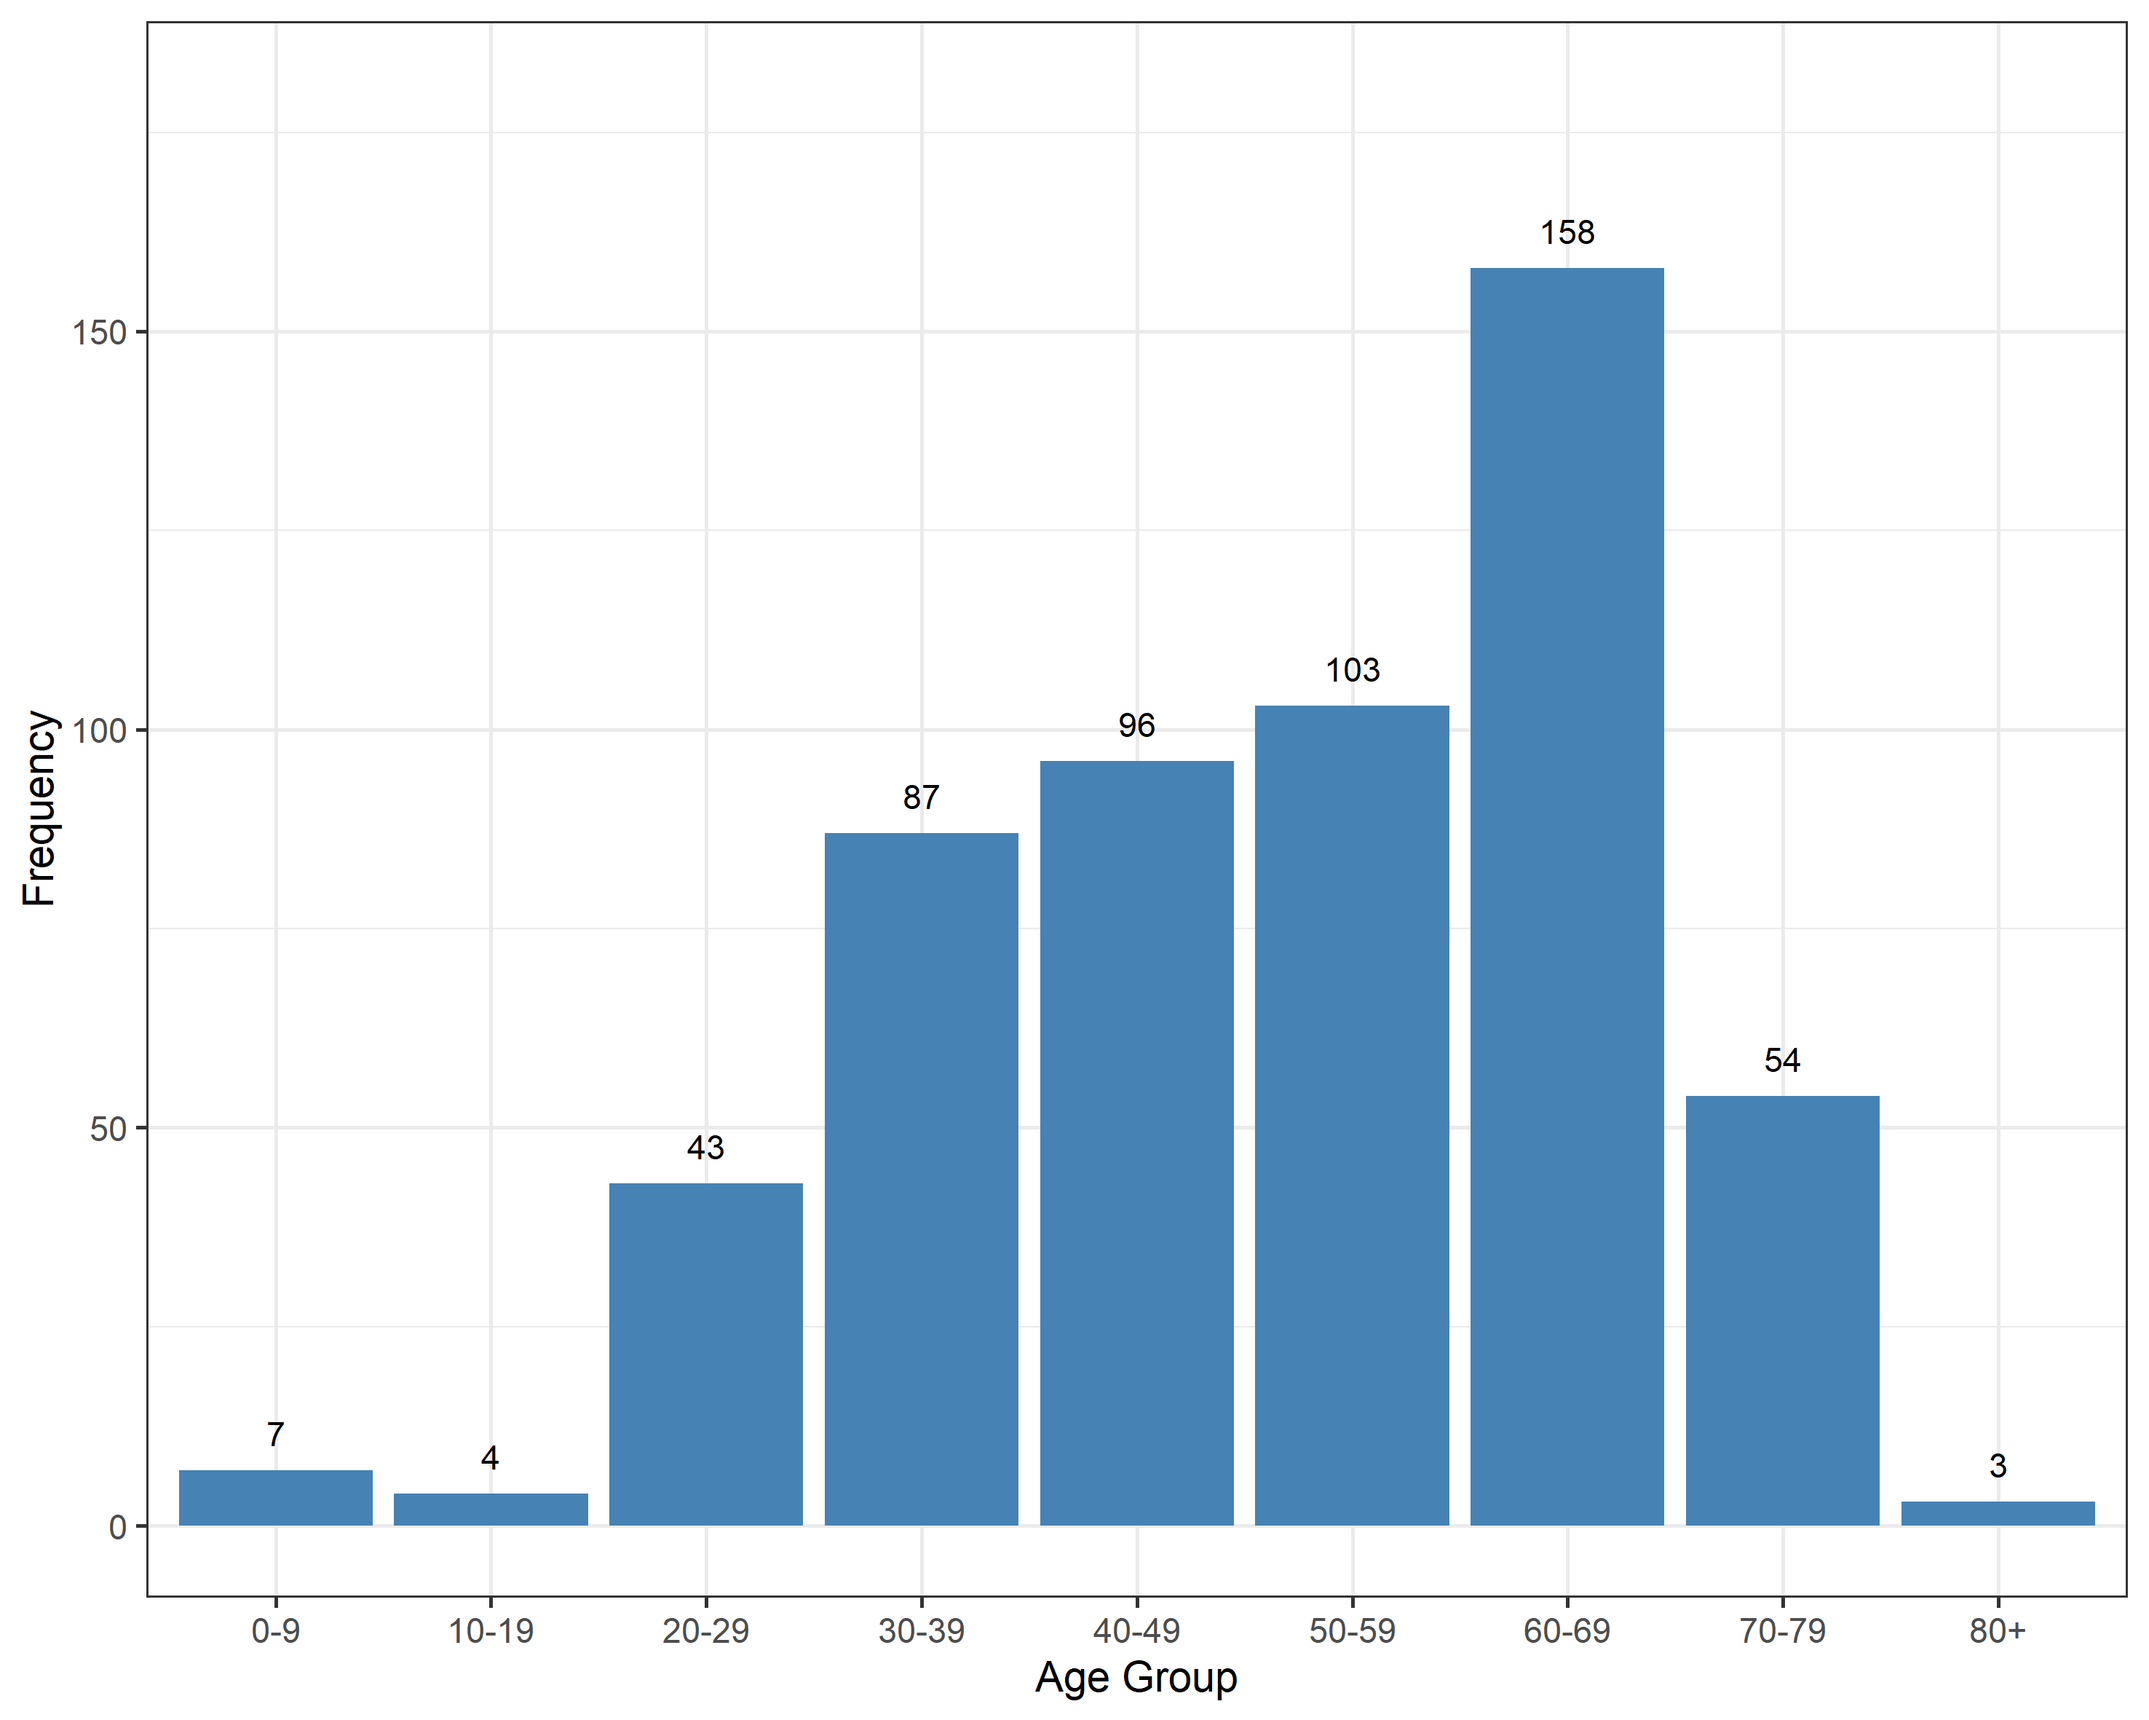
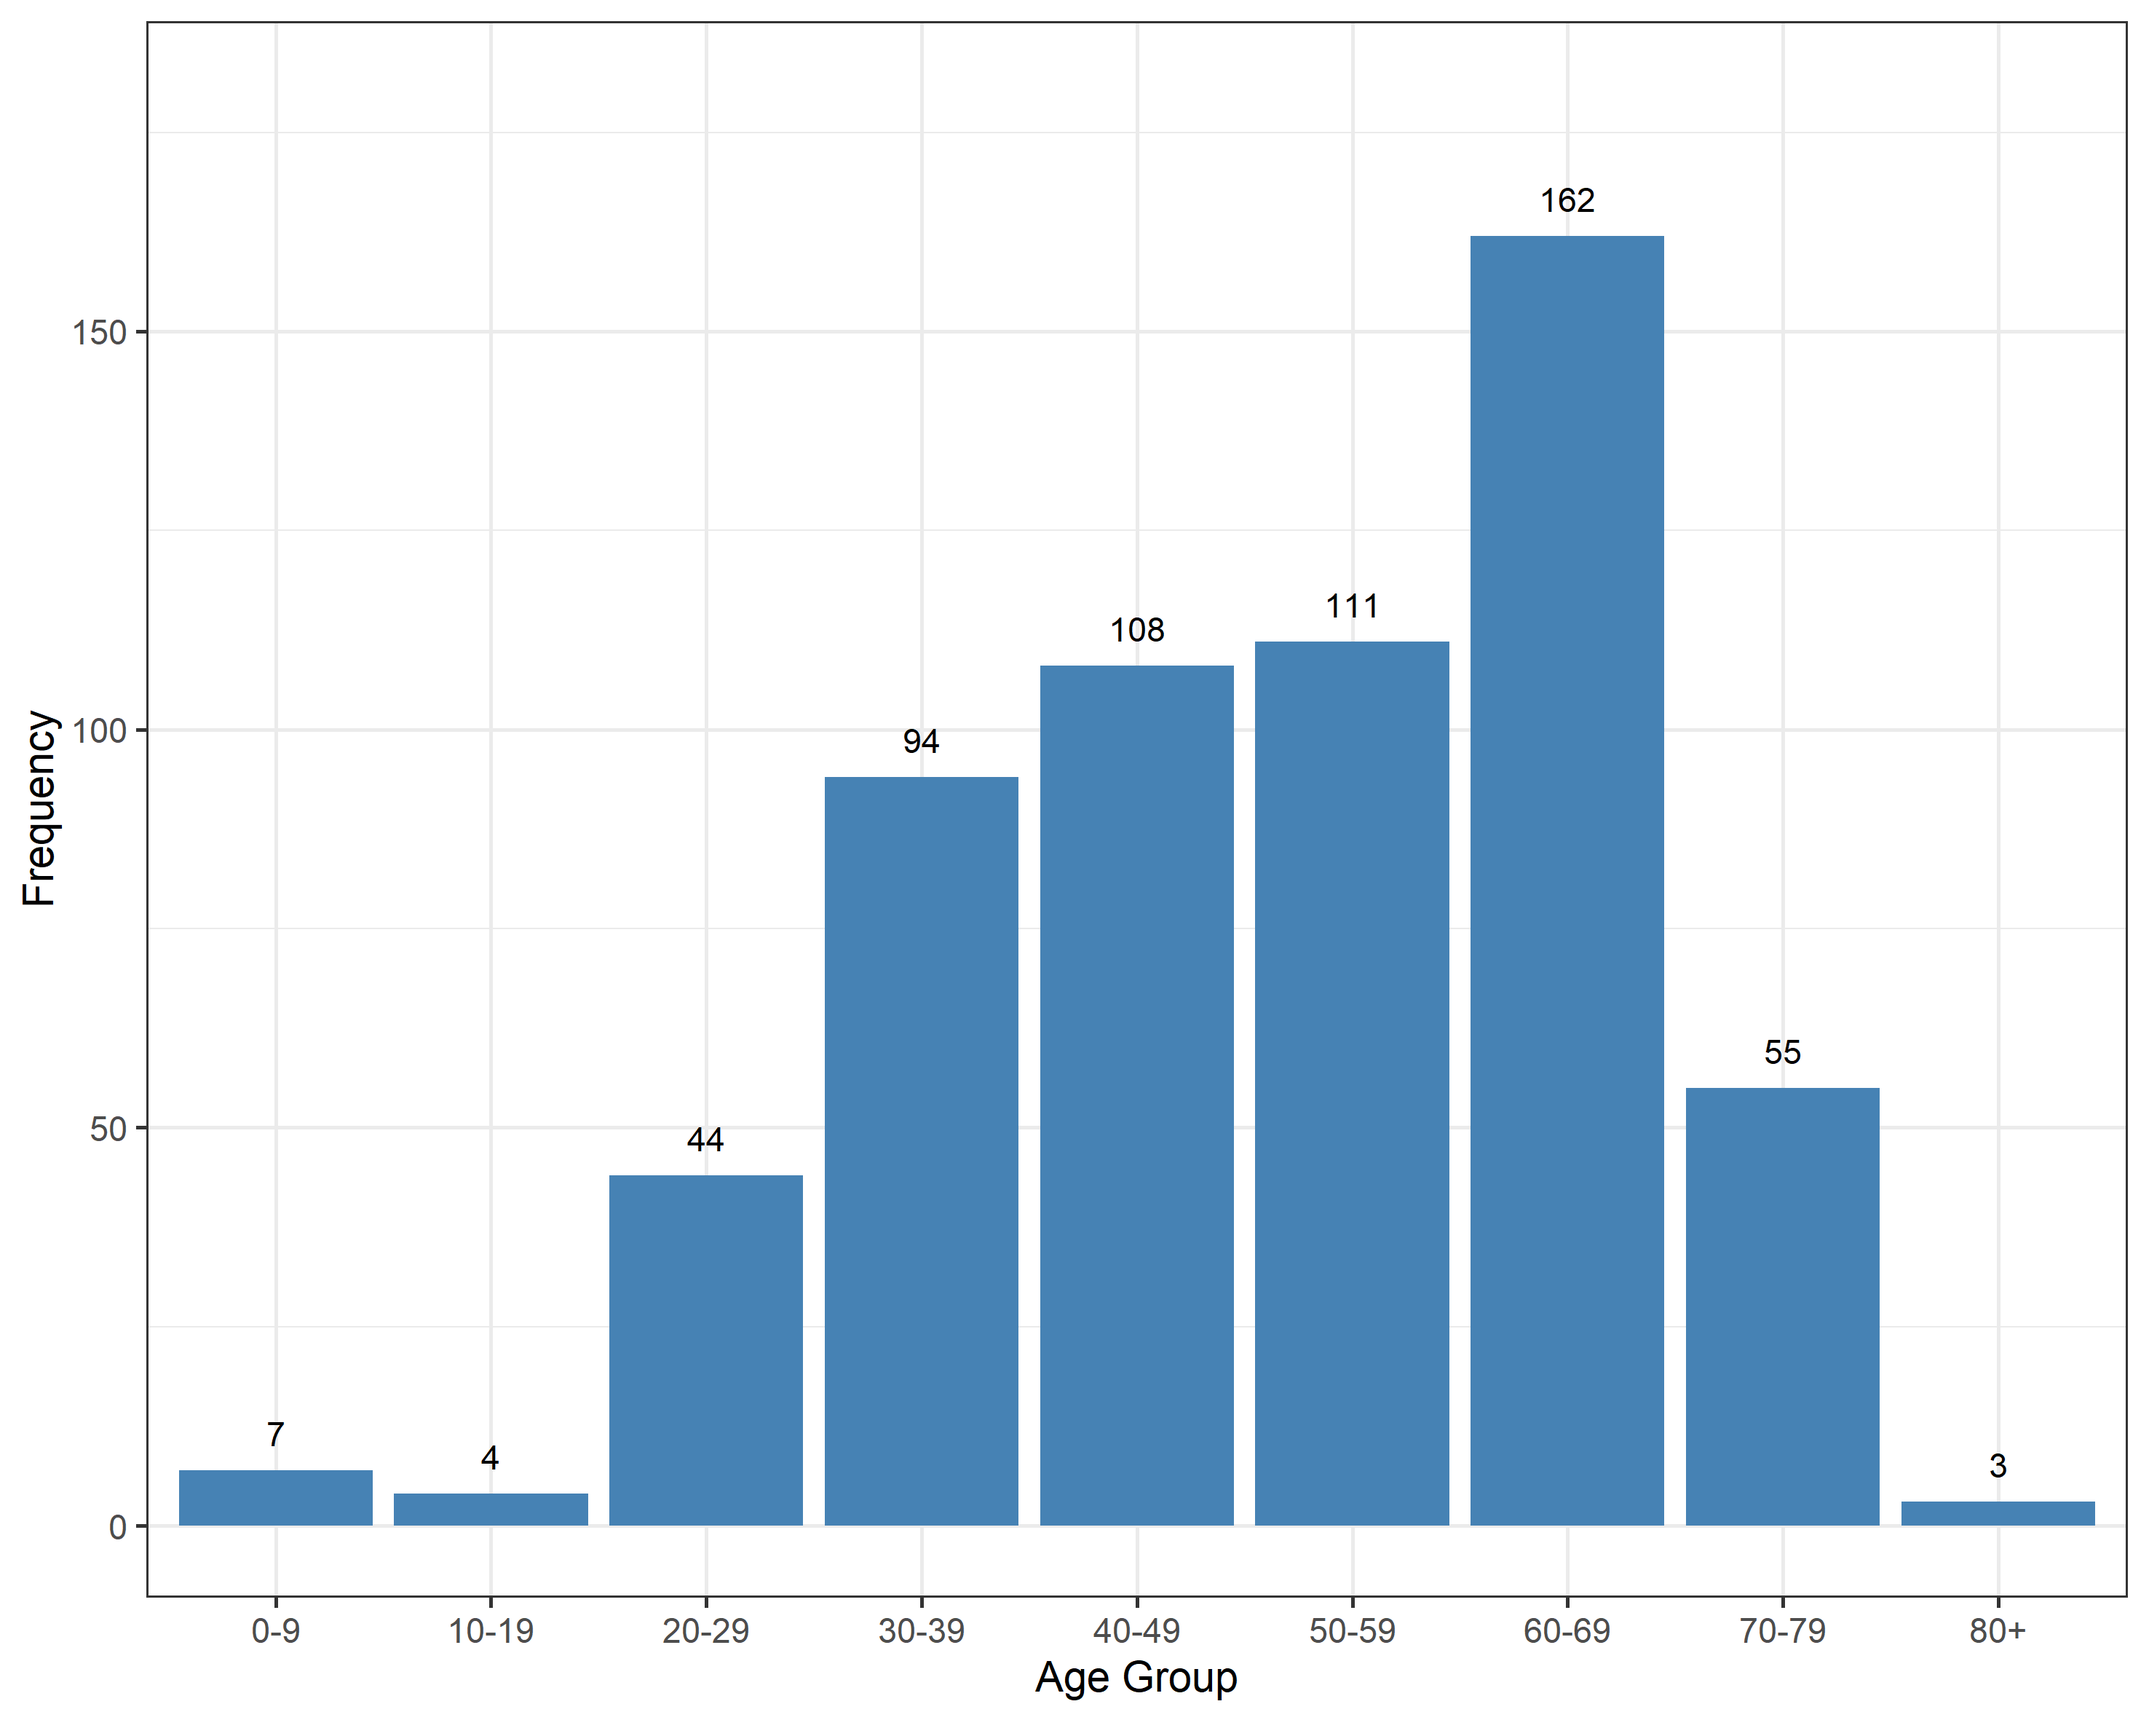
Update results 01/06

diff --git a/public/assets/locales/nl-be/markdowns/results-0.md b/public/assets/locales/nl-be/markdowns/results-0.md
@@ -1,4 +1,4 @@
-`Deze pagina is voor het laatst aangepast op 26.mei.2021 10:00.`
+`Deze pagina is voor het laatst aangepast op 01.jun.2021 12:00.`
 <br />
 
 Op deze pagina vindt u de actuele resultaten van Infectieradar.
@@ -7,7 +7,7 @@ Op deze pagina vindt u de actuele resultaten van Infectieradar.
 
 ## Achtergrond Informatie
 
-Op 26 mei 2021 hadden we 556 deelnemers. 52,5% van de deelnemers is vrouw, en 47.5% is man. Een meerderheid van deelnemers (83.8%) rapporteerden dat ze nog geen Covid-19 hebben gehad. 4.3% van de deelnemers hebben in het verleden positief getest op Covid-19. 11.9% van de deelnemers hebben een sterk vermoeden dat ze Covid-19 hebben gehad.
+Op 1 juni 2021 hadden we 589 deelnemers. 53,7% van de deelnemers is vrouw, en 46,3% is man. Een meerderheid van deelnemers (83.9%) rapporteerden dat ze nog geen Covid-19 hebben gehad. 4.8% van de deelnemers hebben in het verleden positief getest op Covid-19. 11.4% van de deelnemers hebben een sterk vermoeden dat ze Covid-19 hebben gehad.
 <br />
 
 ### Leeftijdsverdeling
@@ -25,7 +25,7 @@ Op 26 mei 2021 hadden we 556 deelnemers. 52,5% van de deelnemers is vrouw, en 47
 
 ## Wekelijkse Symptomen
 
-Op 26 mei 2021 hadden we 2950 ingevulde wekelijkse symptomen vragenlijsten van 518 deelnemers. In 76.3% van de vragenlijsten werd gerapporteerd dat er *geen symptomen* waren.
+Op 1 juni 2021 hadden we 3285 ingevulde wekelijkse symptomen vragenlijsten van 545 deelnemers. In 76.9% van de vragenlijsten werd gerapporteerd dat er *geen symptomen* waren.
 
 ### Gerapporteerde symptomen
 In de figuur hieronder geven we procentueel aan hoe vaak een bepaald symptoom is gerapporteerd in de vragenlijsten waarbij minstens één symptoom werd doorgegeven.

diff --git a/public/assets/locales/de-be/markdowns/results-0.md b/public/assets/locales/de-be/markdowns/results-0.md
@@ -1,4 +1,4 @@
-`Diese Seite wurde zum letzten Mal angepasst am 26.Mai.2021 10:00.`
+`Diese Seite wurde zum letzten Mal angepasst am 01.Jun.2021 12:00.`
 <br />
 
 On this page you will be able to see the latest results from the data collected by Infectieradar.be.
@@ -7,7 +7,7 @@ On this page you will be able to see the latest results from the data collected 
 
 ## Background Information
 
-On May 26, 2021 we had 556 participants. 52.5% of the participants are female, and 47.5% male. The majority of the participants (83.8%) reported having no previous Covid-19 episode. 4.3% of the participants had a positive Covid-19 test in the past. 11.9% of the participants think they had a previous Covid-19 episode.
+On June 1, 2021 we had 589 participants. 53.7% of the participants are female, and 46.3% male. The majority of the participants (83.9%) reported having no previous Covid-19 episode. 4.8% of the participants had a positive Covid-19 test in the past. 11.4% of the participants think they had a previous Covid-19 episode.
 <br />
 
 ### Age distribution
@@ -25,7 +25,7 @@ On May 26, 2021 we had 556 participants. 52.5% of the participants are female, a
 
 ## Weekly Symptoms
 
-On May 26, 2021 we had 2950 completed weekly symptom questionnaires from 518 participants. In 76,3% of the symptom questionnaires it was reported that there were *no symptoms*.
+On June 1, 2021 we had 3285 completed weekly symptom questionnaires from 545 participants. In 76,9% of the symptom questionnaires it was reported that there were *no symptoms*.
 
 ### Reported symptoms
 

diff --git a/public/assets/locales/fr-be/markdowns/results-0.md b/public/assets/locales/fr-be/markdowns/results-0.md
@@ -1,4 +1,4 @@
-`Dernière modification de cette page le 26.mai.2021 10:00.`
+`Dernière modification de cette page le 01.juin.2021 12:00.`
 <br />
 
 On this page you will be able to see the latest results from the data collected by Infectieradar.be.
@@ -7,7 +7,7 @@ On this page you will be able to see the latest results from the data collected 
 
 ## Background Information
 
-On May 26, 2021 we had 556 participants. 52.5% of the participants are female, and 47.5% male. The majority of the participants (83.8%) reported having no previous Covid-19 episode. 4.3% of the participants had a positive Covid-19 test in the past. 11.9% of the participants think they had a previous Covid-19 episode.
+On June 1, 2021 we had 589 participants. 53.7% of the participants are female, and 46.3% male. The majority of the participants (83.9%) reported having no previous Covid-19 episode. 4.8% of the participants had a positive Covid-19 test in the past. 11.4% of the participants think they had a previous Covid-19 episode.
 <br />
 
 ### Age distribution
@@ -25,7 +25,7 @@ On May 26, 2021 we had 556 participants. 52.5% of the participants are female, a
 
 ## Weekly Symptoms
 
-On May 26, 2021 we had 2950 completed weekly symptom questionnaires from 518 participants. In 76,3% of the symptom questionnaires it was reported that there were *no symptoms*.
+On June 1, 2021 we had 3285 completed weekly symptom questionnaires from 545 participants. In 76,9% of the symptom questionnaires it was reported that there were *no symptoms*.
 
 ### Reported symptoms
 

diff --git a/public/assets/locales/en/markdowns/results-0.md b/public/assets/locales/en/markdowns/results-0.md
@@ -1,4 +1,4 @@
-`This page has been last updated at 26.may.2021 10:00.`
+`This page has been last updated at 01.jun.2021 12:00.`
 <br />
 
 On this page you will be able to see the latest results from the data collected by Infectieradar.be.
@@ -7,7 +7,7 @@ On this page you will be able to see the latest results from the data collected 
 
 ## Background Information
 
-On May 26, 2021 we had 556 participants. 52.5% of the participants are female, and 47.5% male. The majority of the participants (83.8%) reported having no previous Covid-19 episode. 4.3% of the participants had a positive Covid-19 test in the past. 11.9% of the participants think they had a previous Covid-19 episode.
+On June 1, 2021 we had 589 participants. 53.7% of the participants are female, and 46.3% male. The majority of the participants (83.9%) reported having no previous Covid-19 episode. 4.8% of the participants had a positive Covid-19 test in the past. 11.4% of the participants think they had a previous Covid-19 episode.
 <br />
 
 ### Age distribution
@@ -25,7 +25,7 @@ On May 26, 2021 we had 556 participants. 52.5% of the participants are female, a
 
 ## Weekly Symptoms
 
-On May 26, 2021 we had 2950 completed weekly symptom questionnaires from 518 participants. In 76,3% of the symptom questionnaires it was reported that there were *no symptoms*.
+On June 1, 2021 we had 3285 completed weekly symptom questionnaires from 545 participants. In 76,9% of the symptom questionnaires it was reported that there were *no symptoms*.
 
 ### Reported symptoms
 
